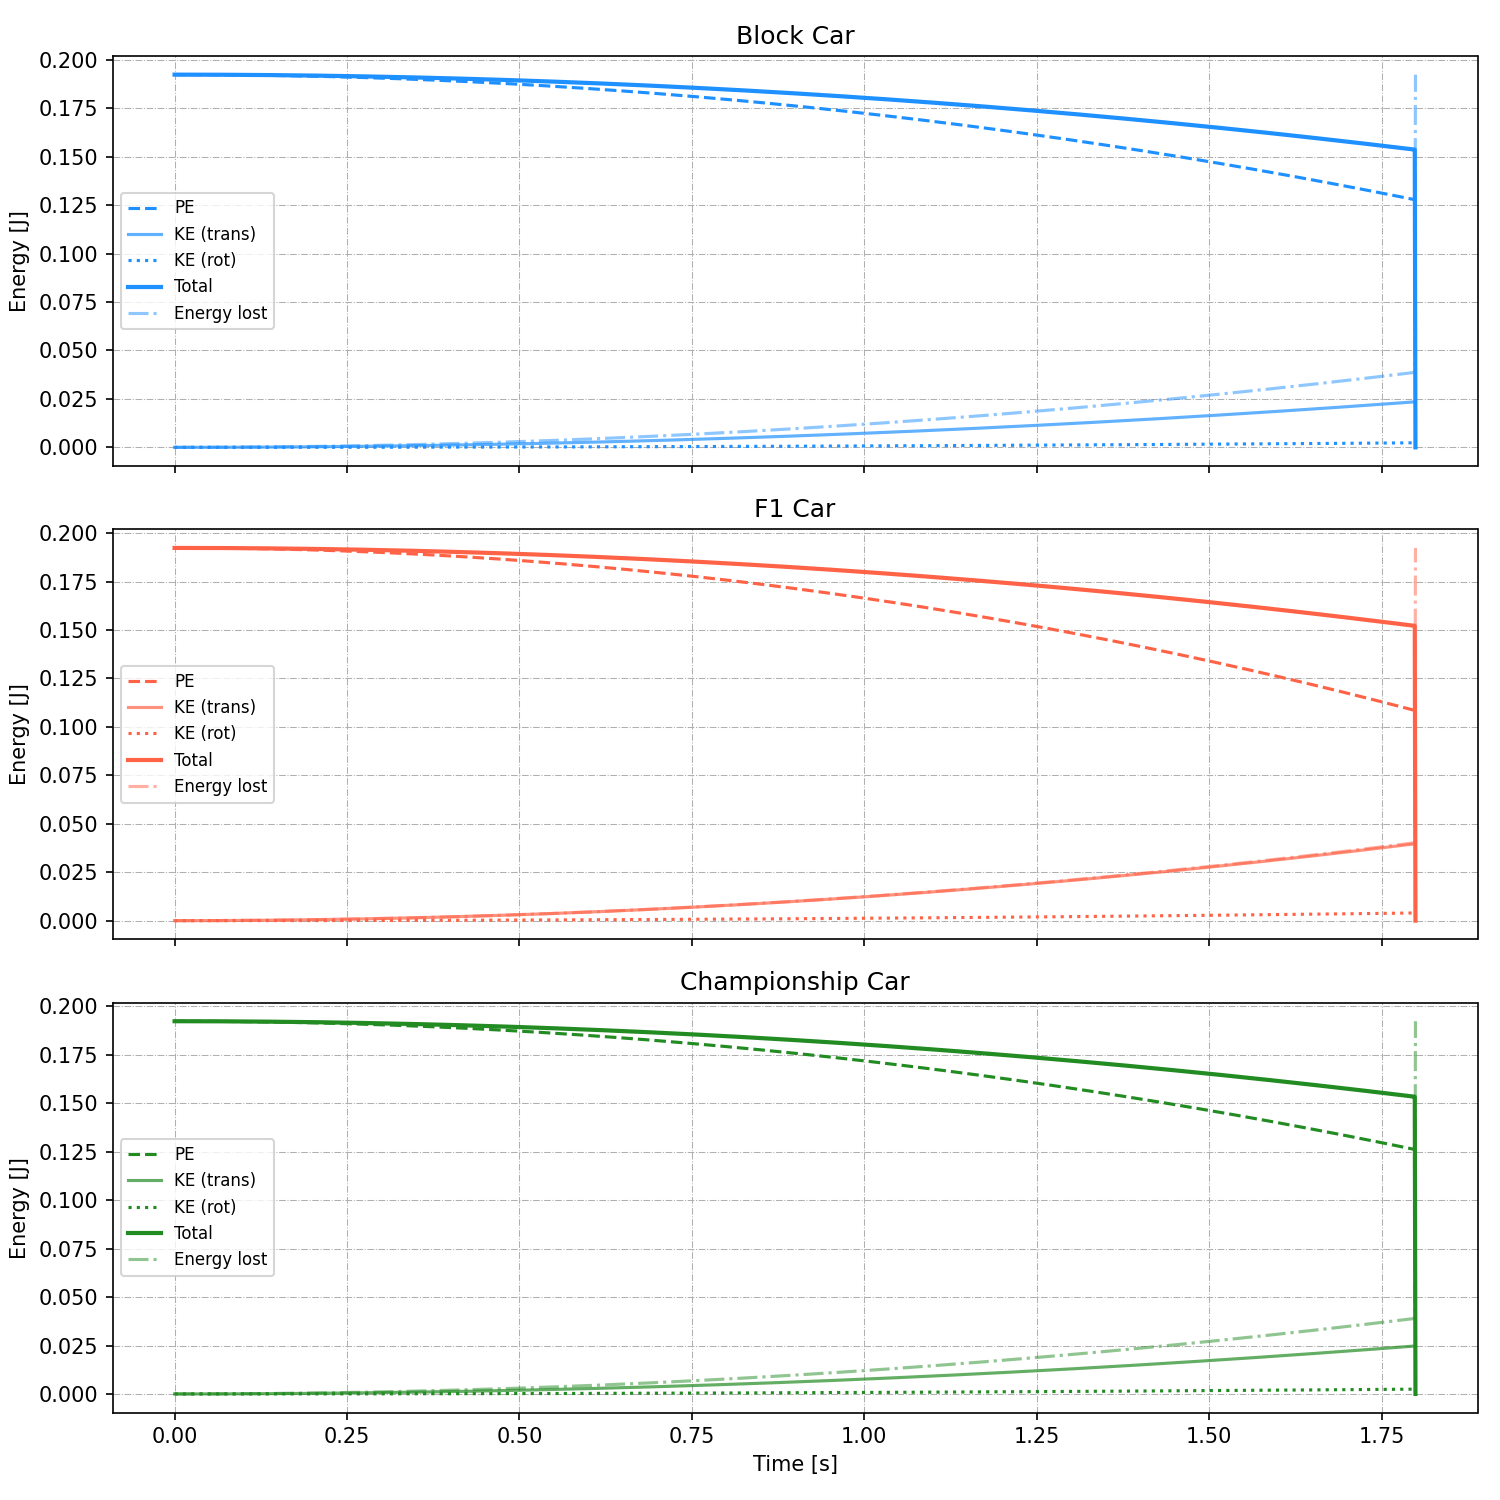
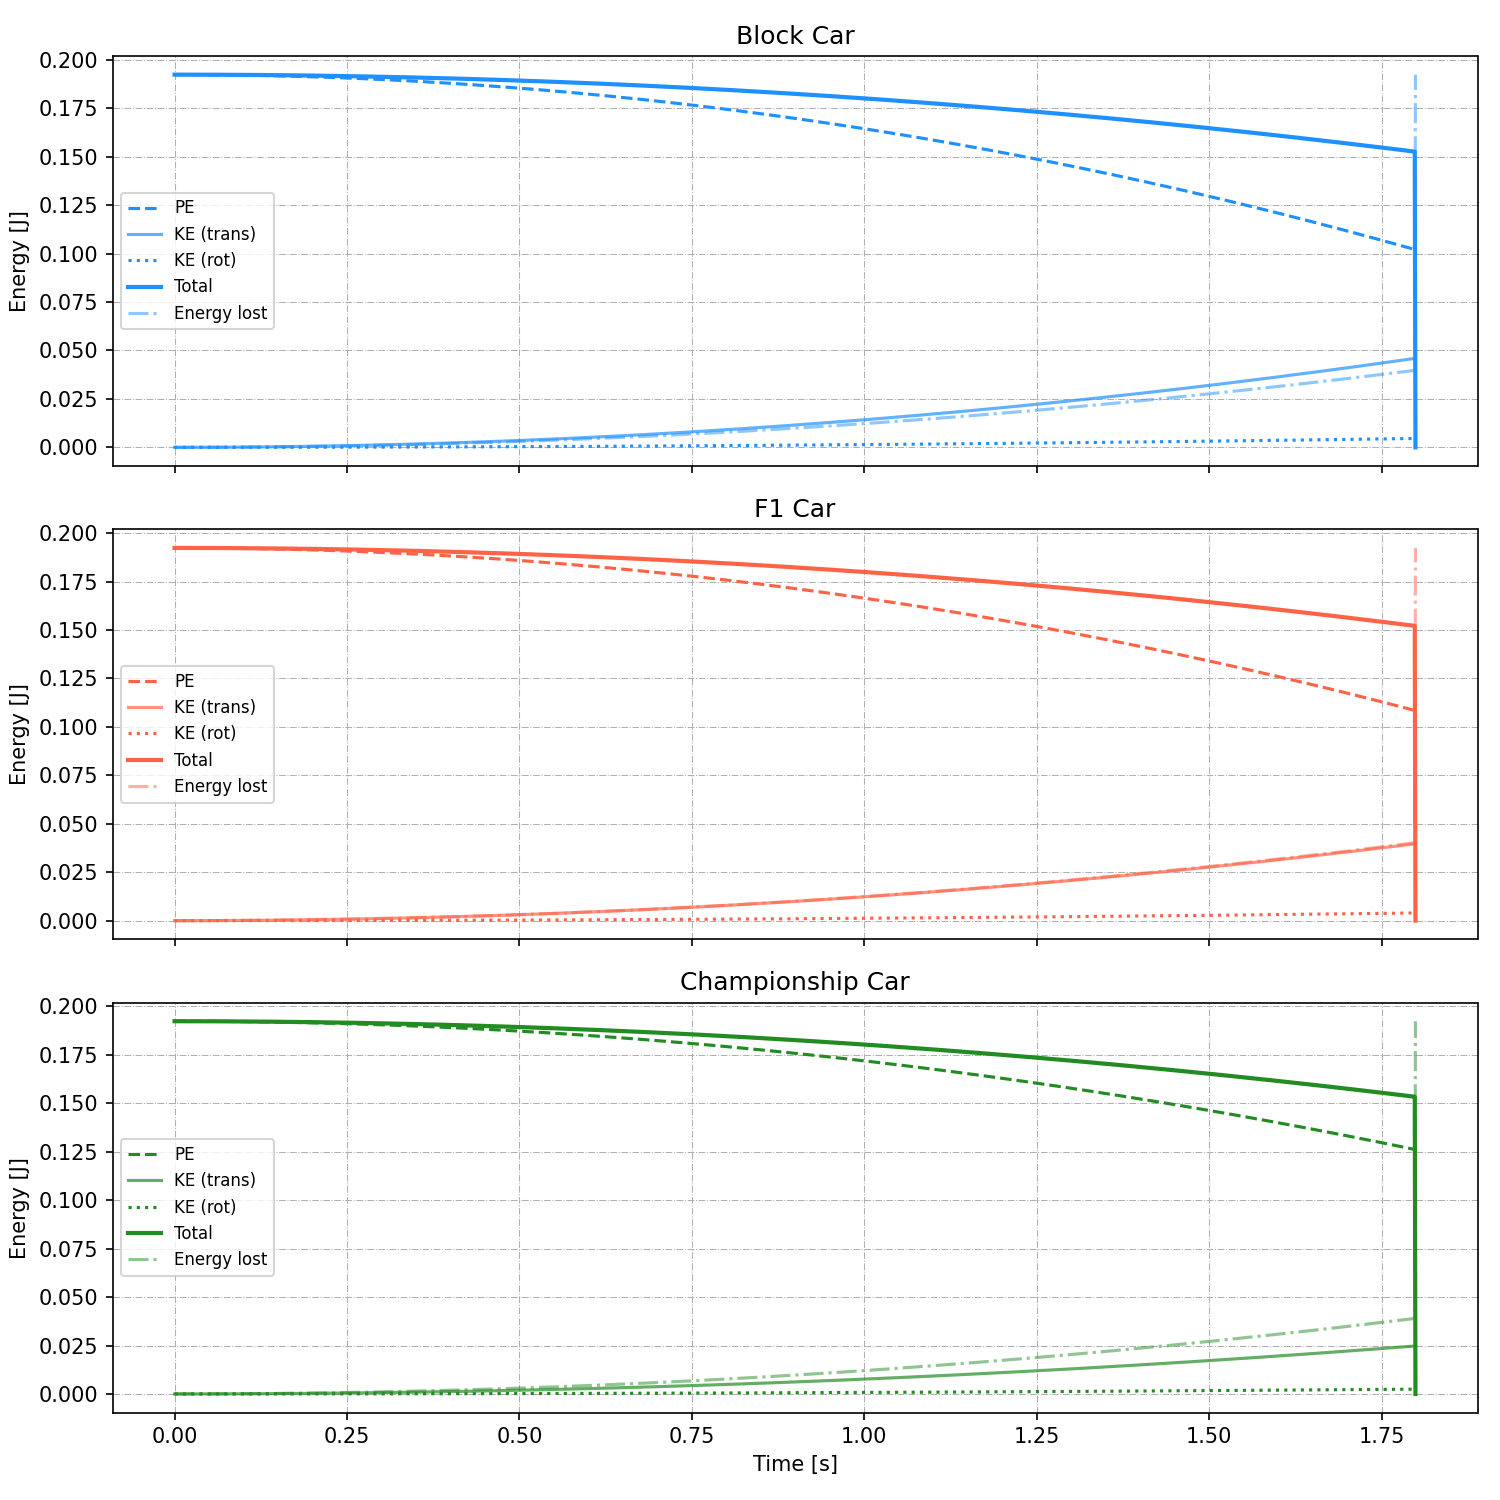
update file path

diff --git a/fluids_Pinewood_Derby.py b/fluids_Pinewood_Derby.py
@@ -224,7 +224,7 @@ for ax, (sec, pos, vel, acc, PE, KE, KE_rot, E_total, E_loss, label) in zip(axes
 axes[-1].set_xlabel('Time [s]')
 
 plt.tight_layout()
-plt.savefig('kinematics.png', dpi=150)
-figE.savefig('energy.png', dpi=150)
+plt.savefig('output\\kinematics.png', dpi=150)
+figE.savefig('output\\energy.png', dpi=150)
 plt.show()
 print("Done.")